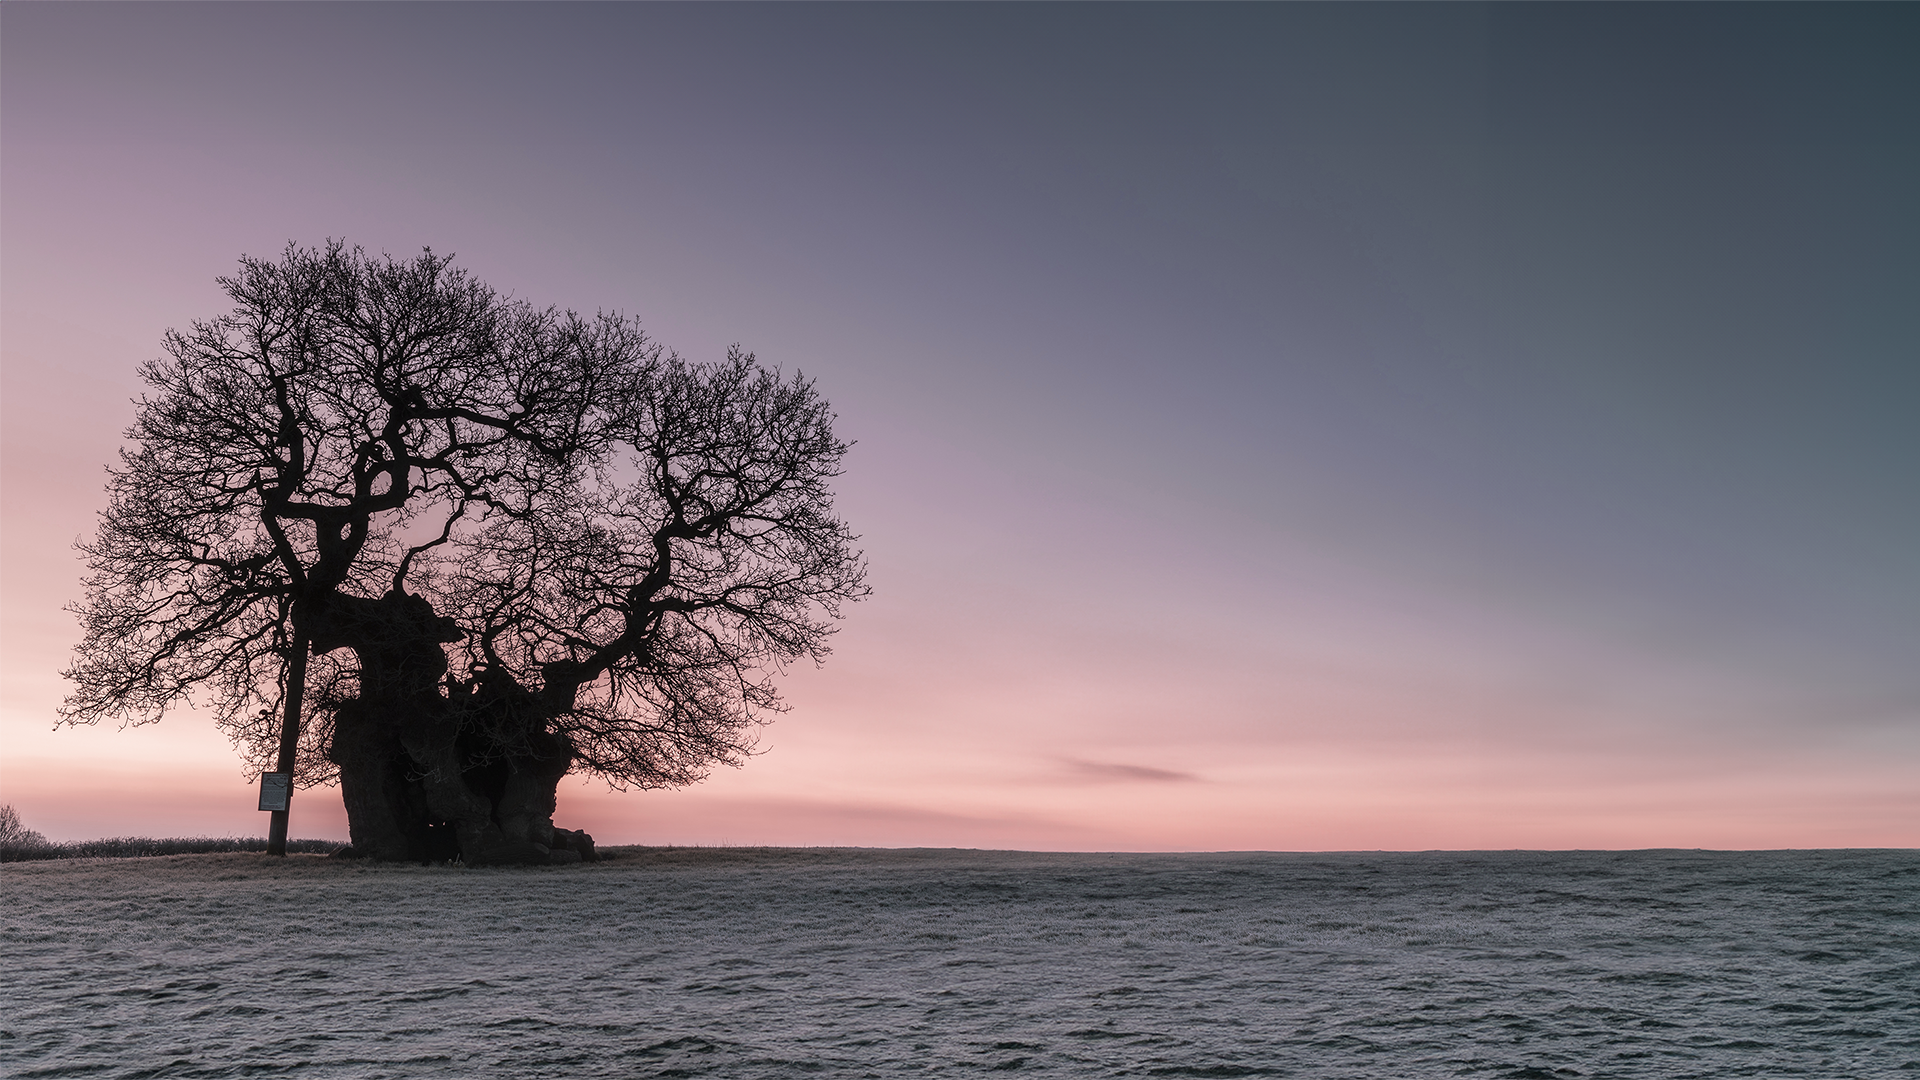
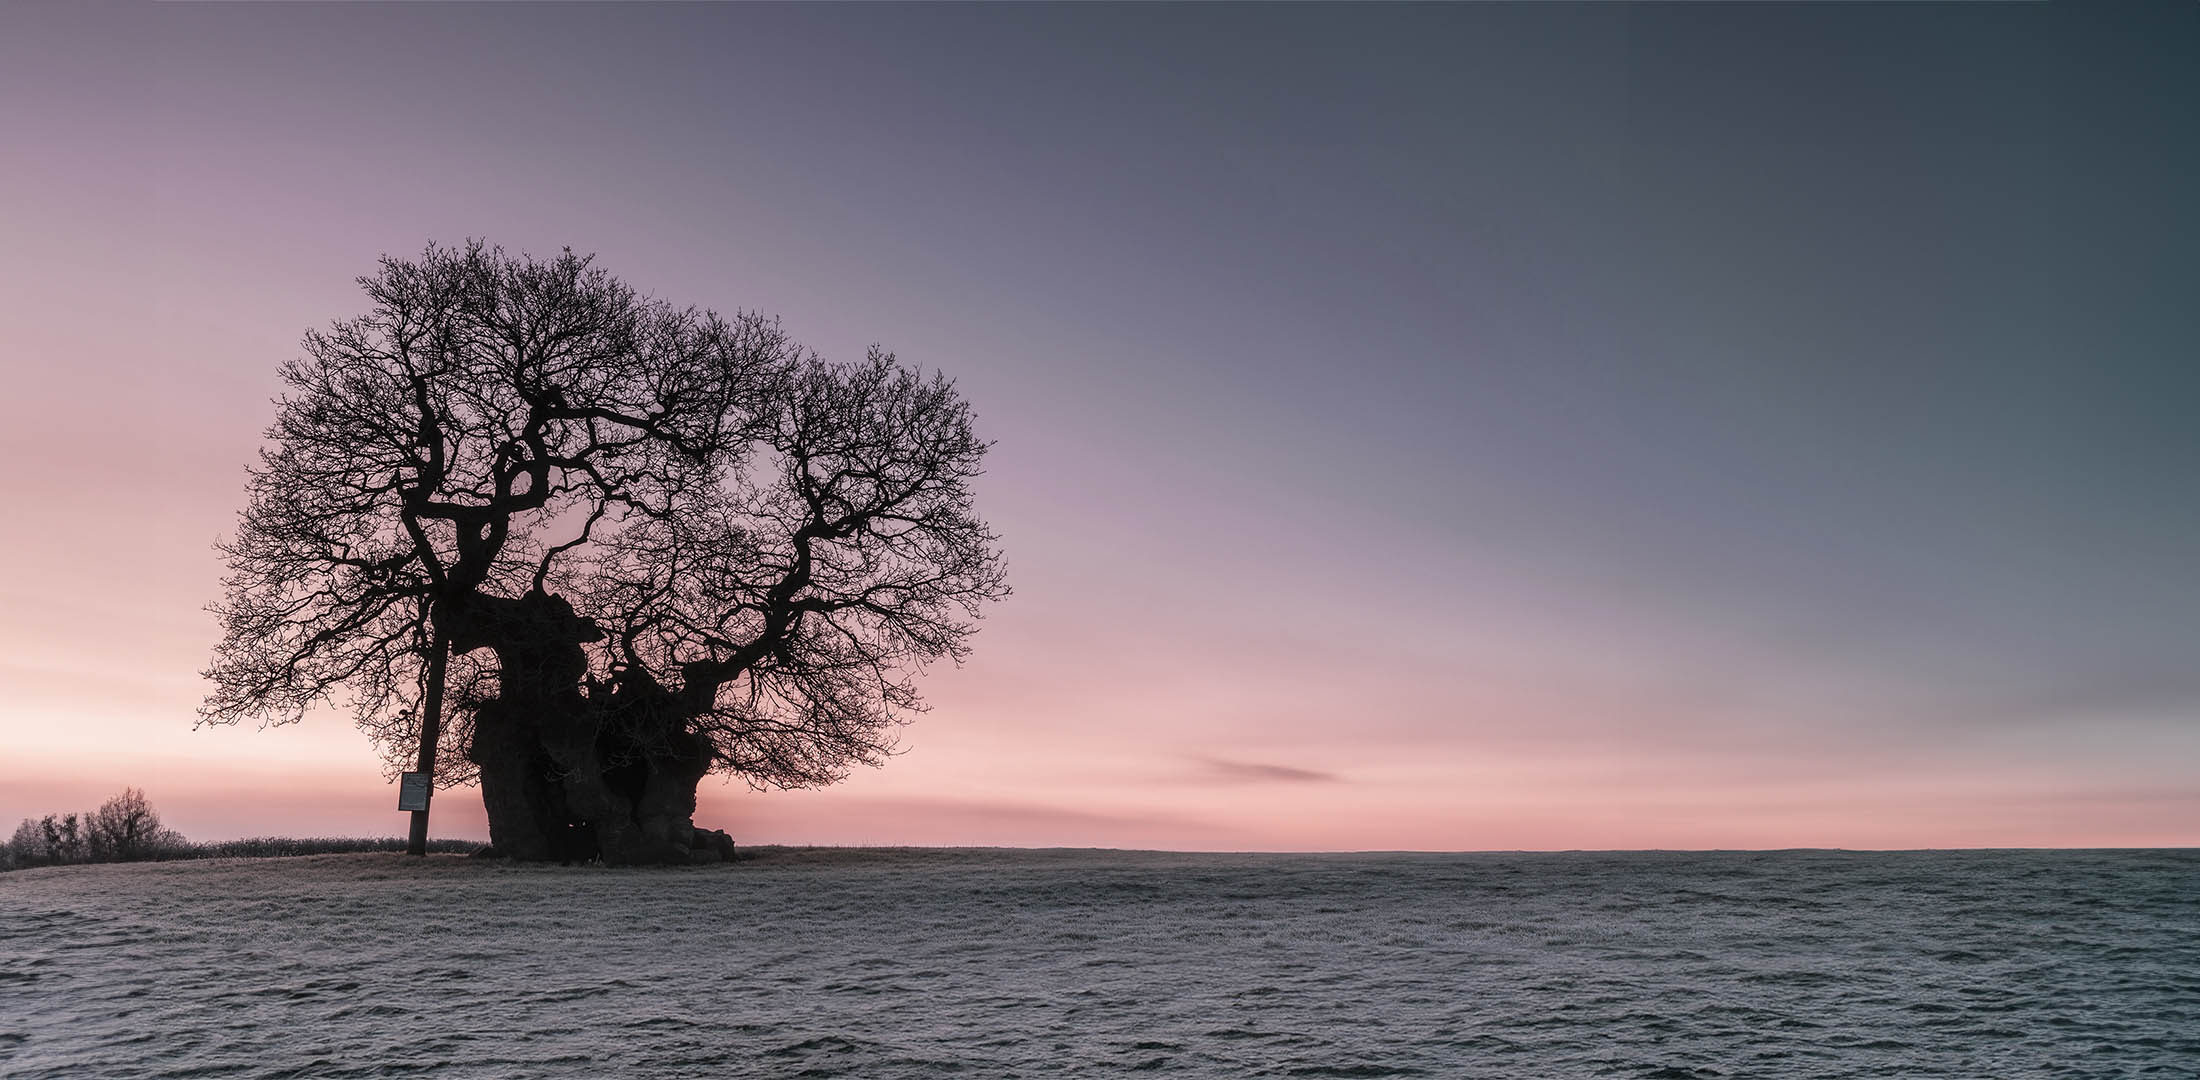
Tweak homepage hero padding and layout

Changed region(s): [[0.0, 0.2139, 1.0, 1.0], [0.5938, 0.7028, 0.625, 0.7333]]

diff --git a/_sass/_hero.scss b/_sass/_hero.scss
@@ -1,6 +1,6 @@
 .wt-hero {
     position: relative;
-    padding: 1rem 0 2rem 0;
+    padding: 2rem 0;
     min-height: 70dvh;
 
     background: #5f6374 url('../img/wt-adam-burton-1827140-portrait.jpg') 50% 90% no-repeat;
@@ -16,7 +16,7 @@
         background-image: url('../img/wt-adam-burton-1827140-landscape.jpg');
         background-position: 25% 50%;
 
-        padding: 10% 0;
+        padding: max(3rem, 10dvh) 0;
         min-height: 35dvh;
         display: flex;
         flex-direction: row;
